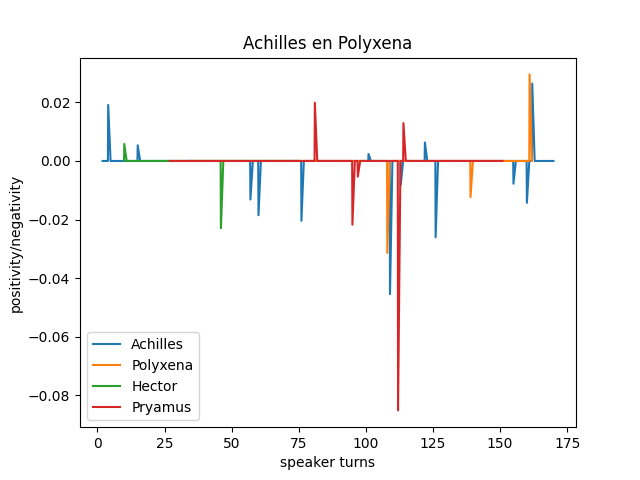
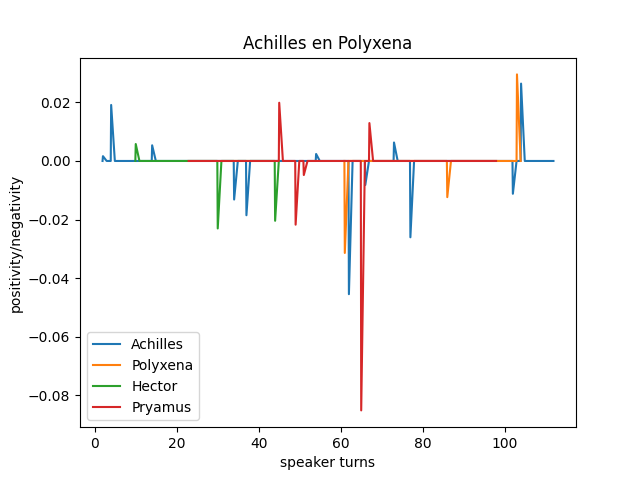
changed plays for sentiment analysis

diff --git a/help_methods/translate_speaker.py b/help_methods/translate_speaker.py
@@ -2,32 +2,33 @@ def translate_speaker(speaker):
     """
     This function translates various references to specific speakers in certain plays into a clear reference.
     Specifically for the following plays and speakers:
-    1. 'Gysbreght van Aemstel' by Vondel
-        - Speakers: Gijsbrecht and Badeloch
-    2. 'Joanna koninging van Napels' by Lope de Vega
-        - Speakers: Joanna, Andreas and Lodewijck
+    1. 'Lucifer' by Vondel
+        - Speakers: Belzebab, Lucifer, Gabriël and Michaël
+    2. 'De beklaaghelycke dwangh' by Lope de Vegas
+        - Speakers: Rozaura, Dionysia, Henrijk and Octavio
     3. 'Achilles en Polyxena' by Hooft
         - Speakers: Achilles, Polyxena, Hector and Pryamus
     4. 'Medea' by Vos
         - Speakers: Medea, Jazon and Kreuza
     """  
     
-    if speaker in ['hecvba', 'hecuba']:
-        return 'Hecuba'
-    elif speaker in ['polydorvs', 'polidorvs', 'polydoor']:
-        return 'Polydorus'
+    if speaker in ['roz', 'rozaura']:
+        return 'Rozaura'
+    elif speaker in ['dionysia', 'dion', 'dio']:
+        return 'Dionysia'
+    elif speaker in ['henr', 'hen', 'henrijk', 'hendrijk', 'henriko']:
+        return 'Henrijk'
+    elif speaker in ['octav', 'octavio']:
+        return 'Octavio'
 
-    elif speaker in ['and', 'andreas', 'ans']:
-        return 'Andreas'
-    elif speaker in ['lodewijck', 'lod', 'lo', 'lode']:
-        return 'Lodewijck'
-    elif speaker in ['koningin', 'ko']:
-        return 'Joanna'
-
-    elif speaker in ['gijsbrecht', 'gysbreght', 'gysbrecht', 'gys']:
-        return 'Gijsbrecht'
-    elif speaker in ['ba', 'badeloch']:
-        return 'Badeloch'
+    elif speaker in ['belz', 'belzebab']:
+        return 'Belzebab'
+    elif speaker in ['lucifer', 'luc']:
+        return 'Lucifer'
+    elif speaker in ['gab', 'gabriël']:
+        return 'Gabriël'
+    elif speaker in ['mich', 'michaël']:
+        return 'Michaël'
 
     elif speaker in ['pryamus', 'priamus']:
         return 'Pryamus'

diff --git a/main.py b/main.py
@@ -1,7 +1,7 @@
 from emotion_references import EmotionReferences
 from sentiment_visualisation import SentimentVisualisation
 from embodied_emotions import EmbodiedEmotions
-import os
+
 
 user_input = int(input("""What action do you want to perform on the dataset?
 Type '1' for Extracting of emotion references per file and genre
@@ -24,14 +24,14 @@ elif user_input == 2:
 
 
 elif user_input == 3:
-    data = {'data/vondels_toneel/vond001gysb04_01.xml': ['Gijsbrecht', 'Badeloch'], 'data/spaans/lope001joan01_01.xml': [
-        'Joanna', 'Andreas', 'Lodewijck'], 'data/senecaans_scaligeriaans/hoof001achi01_01.xml': ['Achilles', 'Polyxena', 
+    data = {'data/vondels_toneel/vond001luci01_01.xml': ['Belzebab', 'Lucifer', 'Gabriël', 'Michaël'], 'data/spaans/lope001bekl02_01.xml': [
+        'Rozaura', 'Dionysia', 'Henrijk', 'Octavio'], 'data/senecaans_scaligeriaans/hoof001achi01_01.xml': ['Achilles', 'Polyxena', 
         'Hector', 'Pryamus'], 'data/gruwel_en_spektakeltoneel/vos_002mede03_01.xml': ['Medea', 'Jazon', 'Kreuza']}
     print("""Plotting sentiment visualisation for:
-    1. 'Gysbreght van Aemstel' by Vondel
-        - Speakers: Gijsbrecht and Badeloch
-    2. 'Joanna koninging van Napels' by Lope de Vega
-        - Speakers: Joanna, Andreas and Lodewijck
+    1. 'Lucifer' by Vondel
+        - Speakers: Belzebab, Lucifer, Gabriël and Michaël
+    2. 'De beklaaghelycke dwangh' by Lope de Vegas
+        - Speakers: Rozaura, Dionysia, Henrijk and Octavio
     3. 'Achilles en Polyxena' by Hooft
         - Speakers: Achilles, Polyxena, Hector and Pryamus
     4. 'Medea' by Vos

diff --git a/help_methods/identify_speakers.py b/help_methods/identify_speakers.py
@@ -1,0 +1,44 @@
+import xml.etree.ElementTree as ET
+
+def identify_speakers(filename):
+    """
+    This function takes a filename and returns all speaker references in it
+    """
+
+    speakers = set()
+    tmp_speaker = []
+
+    # parse file
+    tree = ET.parse(filename)
+    root = tree.getroot()
+    
+    # iterate over every term
+    for terms in root.iter('terms'):
+        for term in terms.iter('term'):
+
+            # store lemma in term
+            term_att = term.attrib
+            lemma = term_att['lemma']
+
+            # get meta information of lemma
+            for span in term.iter('span'):
+                for target in span.iter('target'):
+                    target_att = target.attrib
+                    target_id = target_att['id']
+
+                    # append lemma to temporary speaker variable if meta info indicates speaker reference
+                    if "stage" in target_id and lemma.isalpha() == True:
+                        tmp_speaker.append(lemma.lower())
+                    elif "speaker" in target_id and lemma.isalpha() == True:
+                        tmp_speaker.append(lemma.lower())
+                    
+                    # store speaker if speaker reference has passed
+                    else:
+                        if len(tmp_speaker) > 0:
+                            speaker = tuple(tmp_speaker[:])
+                            speakers.add(speaker)
+
+                            # clear temporary speaker variable
+                            tmp_speaker = []
+    
+    return speakers

diff --git a/sentiment_visualisation.py b/sentiment_visualisation.py
@@ -61,10 +61,12 @@ class SentimentVisualisation():
 
                         # append lemma to speaker_list if meta data indicates start of turn
                         # start of turns can consist of multiple lemma's that together form the name of the speaker
-                        if "stage" in target_id and lemma.isalpha() == True:
-                            self.speaker_list.append(lemma.lower())
-                        elif "speaker" in target_id and lemma.isalpha() == True:
-                            self.speaker_list.append(lemma.lower())
+                        if "stage" in target_id:
+                            if lemma.isalpha() == True:
+                                self.speaker_list.append(lemma.lower())
+                        elif "speaker" in target_id:
+                            if lemma.isalpha() == True:
+                                self.speaker_list.append(lemma.lower())
                          
                         # else add target id to right turn
                         else:

diff --git a/README.md b/README.md
@@ -54,7 +54,7 @@ De hierop volgende lijst beschrijft de belangrijkste mappen en files in het proj
 
 ### Note
 
-In de HEEM-dataset is voor de werken van Coster één file ('cost001rako01_01.xml') die de annotaties van meerdere toneelstukken van Coster omvat. Met behulp van de functie split_coster() (klik [hier](https://github.com/SanneHoeken/HEEM-Data-Extractions/blob/master/help_methods/split_coster.py) voor de implementatiedetails) zijn uit deze file de annotaties van vier toneelstukken geëxtraheert en opgeslagen als losse files. Het gaat om de stukken Ithys, Iphigenia, Isabella and Polyxena; opgeslagen in de datafolder als respectievelijk 'cost001rako01_ithys.xml', 'cost001rako01_iphigenia.xml', 'cost001rako01_isabella.xml' en 'cost001rako01_polyxena.xml'. 
+In de HEEM-dataset is voor de werken van Coster één file (cost001rako01_01.xml) die de annotaties van meerdere toneelstukken van Coster omvat. Met behulp van de functie *split_coster()* (klik [hier](https://github.com/SanneHoeken/HEEM-Data-Extractions/blob/master/help_methods/split_coster.py) voor de implementatiedetails) zijn uit deze file de annotaties van vier toneelstukken geëxtraheert en opgeslagen als losse files. Het gaat om de stukken Ithys, Iphigenia, Isabella and Polyxena; opgeslagen in de datafolder als respectievelijk cost001rako01_ithys.xml, cost001rako01_iphigenia.xml, cost001rako01_isabella.xml en cost001rako01_polyxena.xml. 
 
 ## License
 This work is licensed under a Creative Commons Attribution-ShareAlike 4.0 International License (http://creativecommons.org/licenses/by-sa/4.0/).
